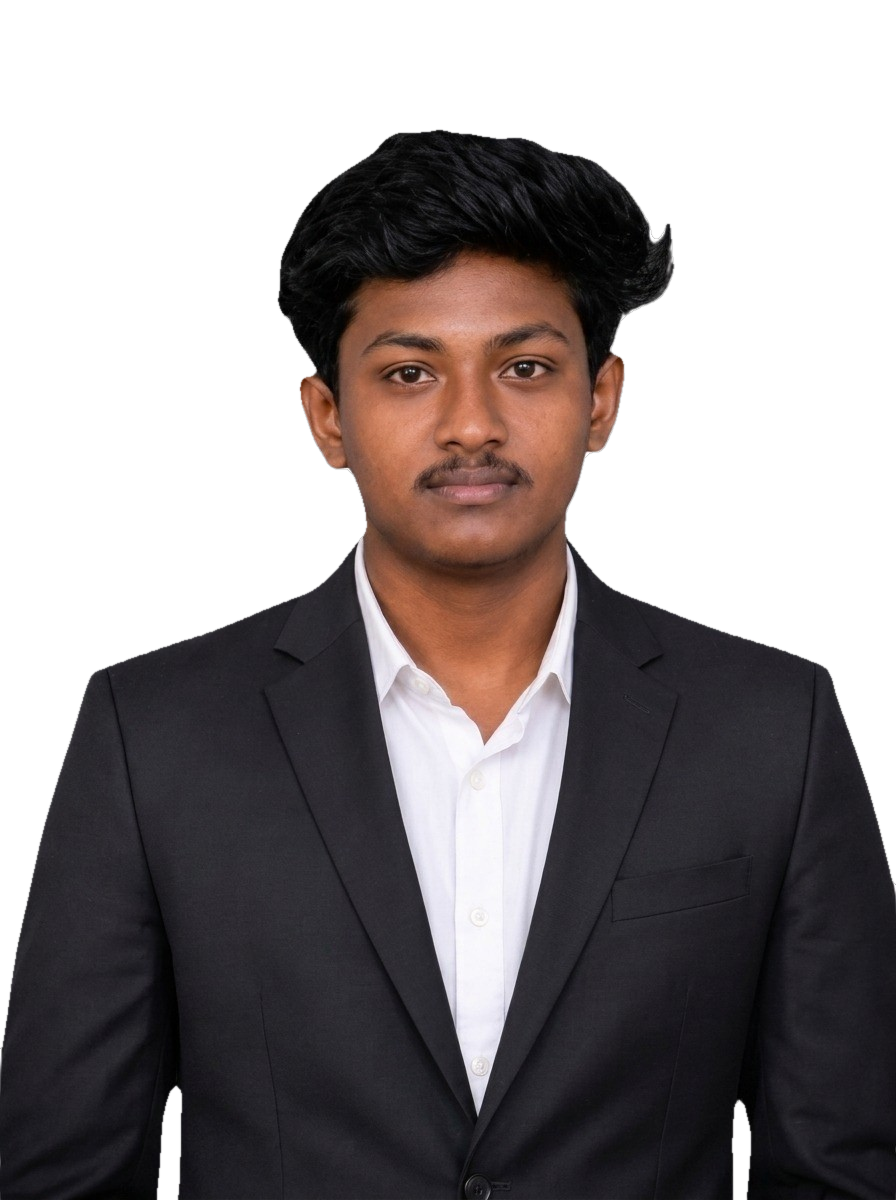
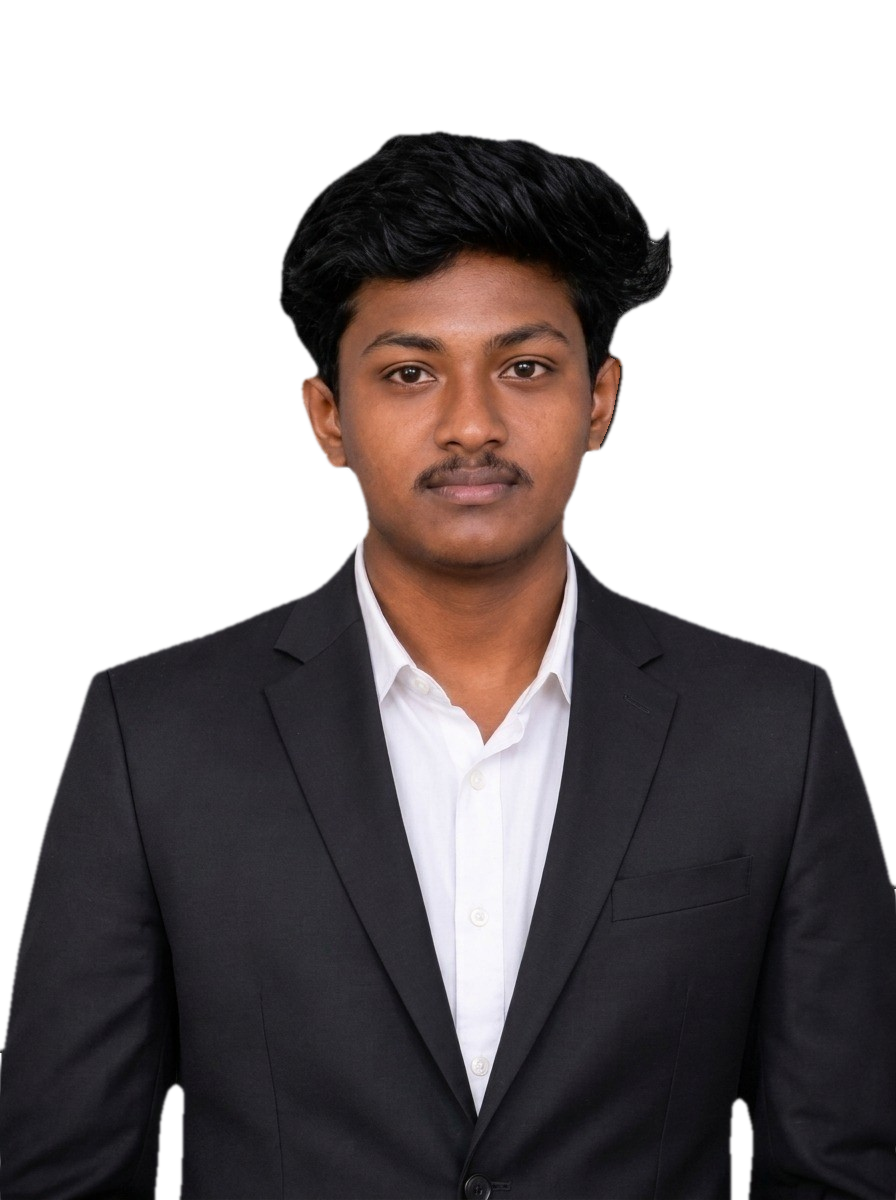
fix(hero): trim stray hair edges, eliminate white outline, and enhance 2D progressive dissolve blend

diff --git a/src/components/Hero.tsx b/src/components/Hero.tsx
@@ -219,11 +219,11 @@ export default function Hero() {
           <div
             className="absolute pointer-events-none"
             style={{
-              width: '120%',
-              height: '120%',
+              width: '130%',
+              height: '130%',
               background:
-                'radial-gradient(ellipse at center, rgba(0, 240, 255, 0.15) 0%, rgba(189, 0, 255, 0.10) 45%, transparent 70%)',
-              filter: 'blur(45px)',
+                'radial-gradient(ellipse at 50% 45%, rgba(0, 240, 255, 0.14) 0%, rgba(189, 0, 255, 0.09) 50%, transparent 75%)',
+              filter: 'blur(40px)',
               zIndex: 0,
             }}
           />
@@ -237,24 +237,26 @@ export default function Hero() {
               src={profilePhoto}
               alt="Vasantharaj S"
               draggable={false}
-              className="w-full h-auto max-h-[540px] md:max-h-[580px] object-contain object-bottom select-none drop-shadow-[0_10px_35px_rgba(0,0,0,0.8)]"
+              className="w-full h-auto max-h-[540px] md:max-h-[580px] object-contain object-bottom select-none drop-shadow-[0_15px_40px_rgba(0,0,0,0.85)]"
               style={{
-                // Natural soft gradient mask on the bottom so it emerges cleanly from the background
+                // 2-Way progressive mask: Soft side edge integration + deep bottom dissolve
                 WebkitMaskImage:
-                  'linear-gradient(to bottom, black 0%, black 70%, rgba(0,0,0,0.6) 85%, transparent 99%)',
+                  'linear-gradient(to bottom, black 0%, black 62%, rgba(0,0,0,0.7) 78%, rgba(0,0,0,0.2) 90%, transparent 100%), linear-gradient(to right, transparent 0%, black 4%, black 96%, transparent 100%)',
+                WebkitMaskComposite: 'source-in',
                 maskImage:
-                  'linear-gradient(to bottom, black 0%, black 70%, rgba(0,0,0,0.6) 85%, transparent 99%)',
-                filter: 'brightness(1.03) contrast(1.04) saturate(1.03)',
+                  'linear-gradient(to bottom, black 0%, black 62%, rgba(0,0,0,0.7) 78%, rgba(0,0,0,0.2) 90%, transparent 100%), linear-gradient(to right, transparent 0%, black 4%, black 96%, transparent 100%)',
+                maskComposite: 'intersect',
+                filter: 'brightness(1.02) contrast(1.03) saturate(1.03)',
               }}
             />
 
             {/* Soft Ambient Ground Bloom */}
             <div
-              className="absolute -bottom-4 left-1/2 -translate-x-1/2 pointer-events-none w-3/4 h-16 rounded-full"
+              className="absolute -bottom-2 left-1/2 -translate-x-1/2 pointer-events-none w-4/5 h-16 rounded-full"
               style={{
                 background:
-                  'radial-gradient(ellipse, rgba(0, 240, 255, 0.25) 0%, rgba(189, 0, 255, 0.12) 50%, transparent 80%)',
-                filter: 'blur(20px)',
+                  'radial-gradient(ellipse, rgba(0, 240, 255, 0.22) 0%, rgba(189, 0, 255, 0.10) 50%, transparent 80%)',
+                filter: 'blur(22px)',
                 zIndex: 2,
               }}
             />
